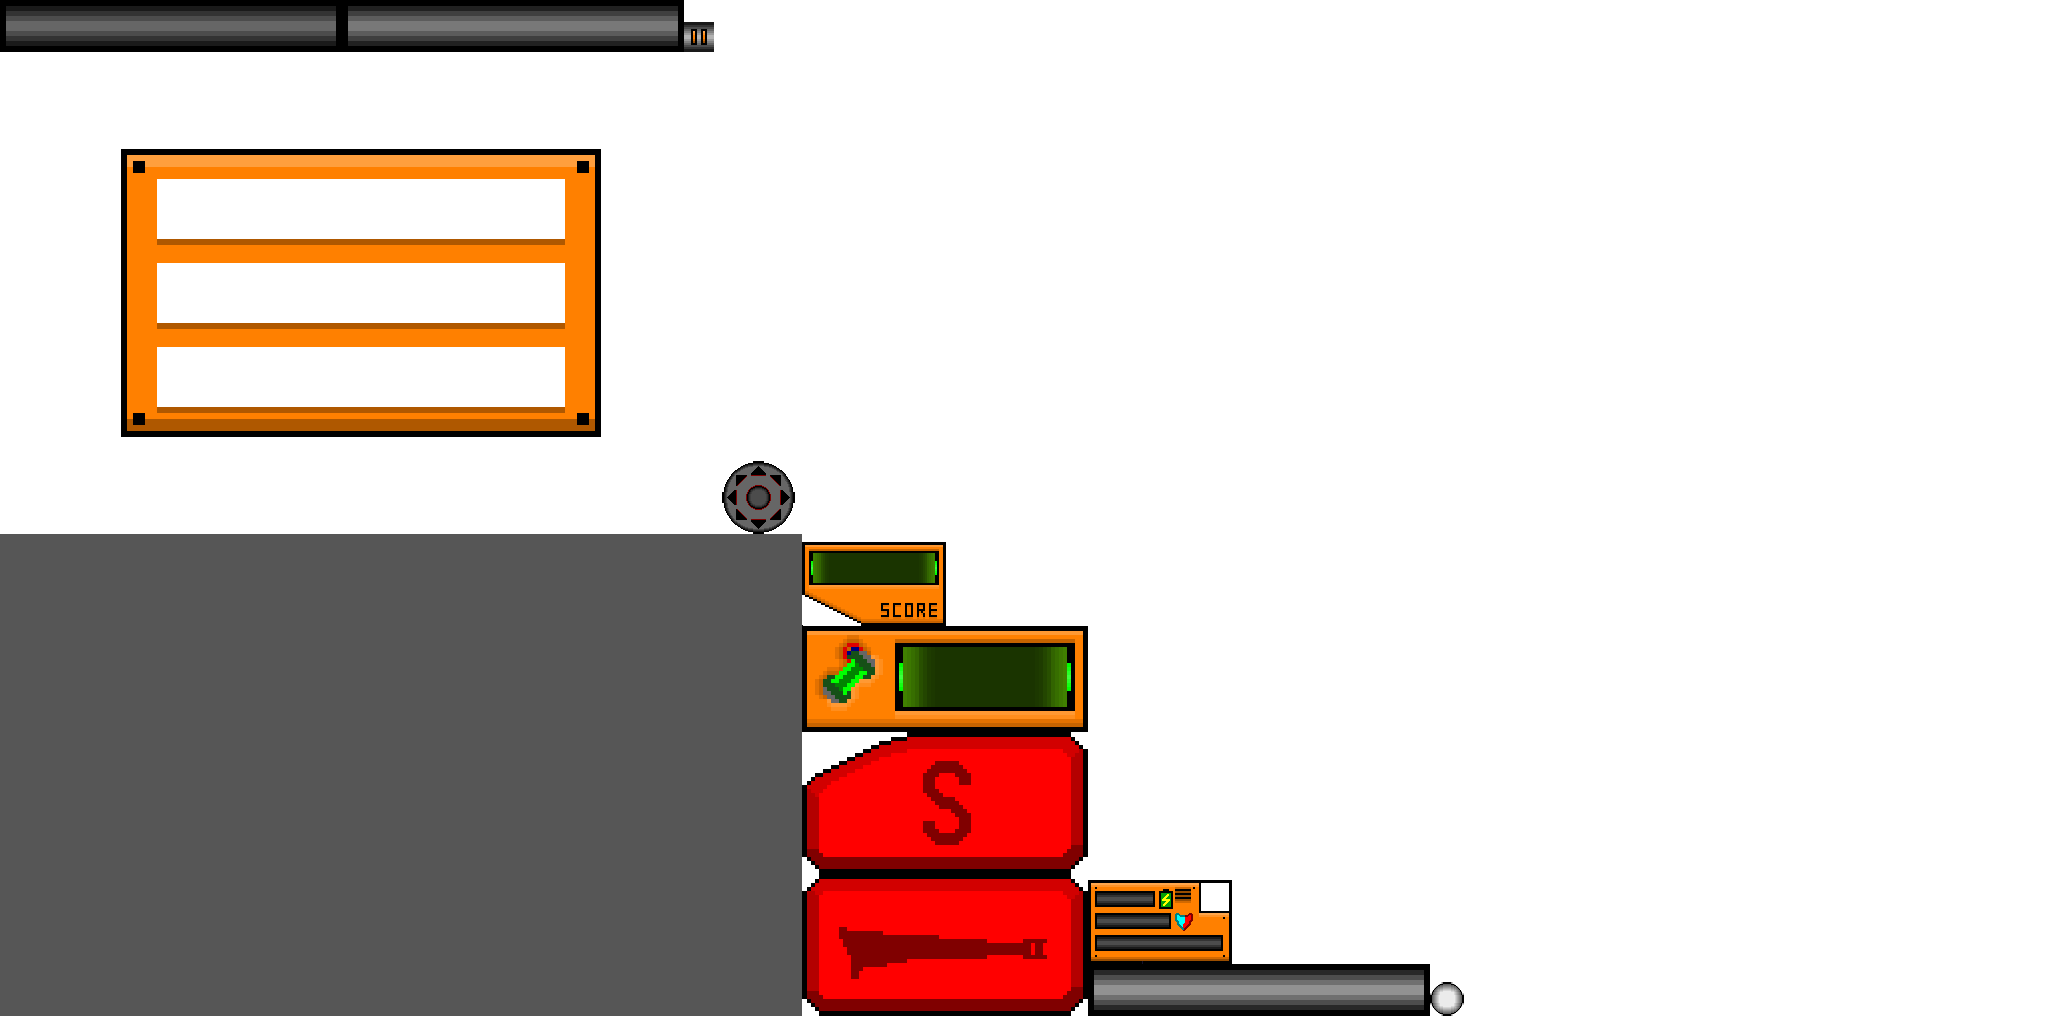
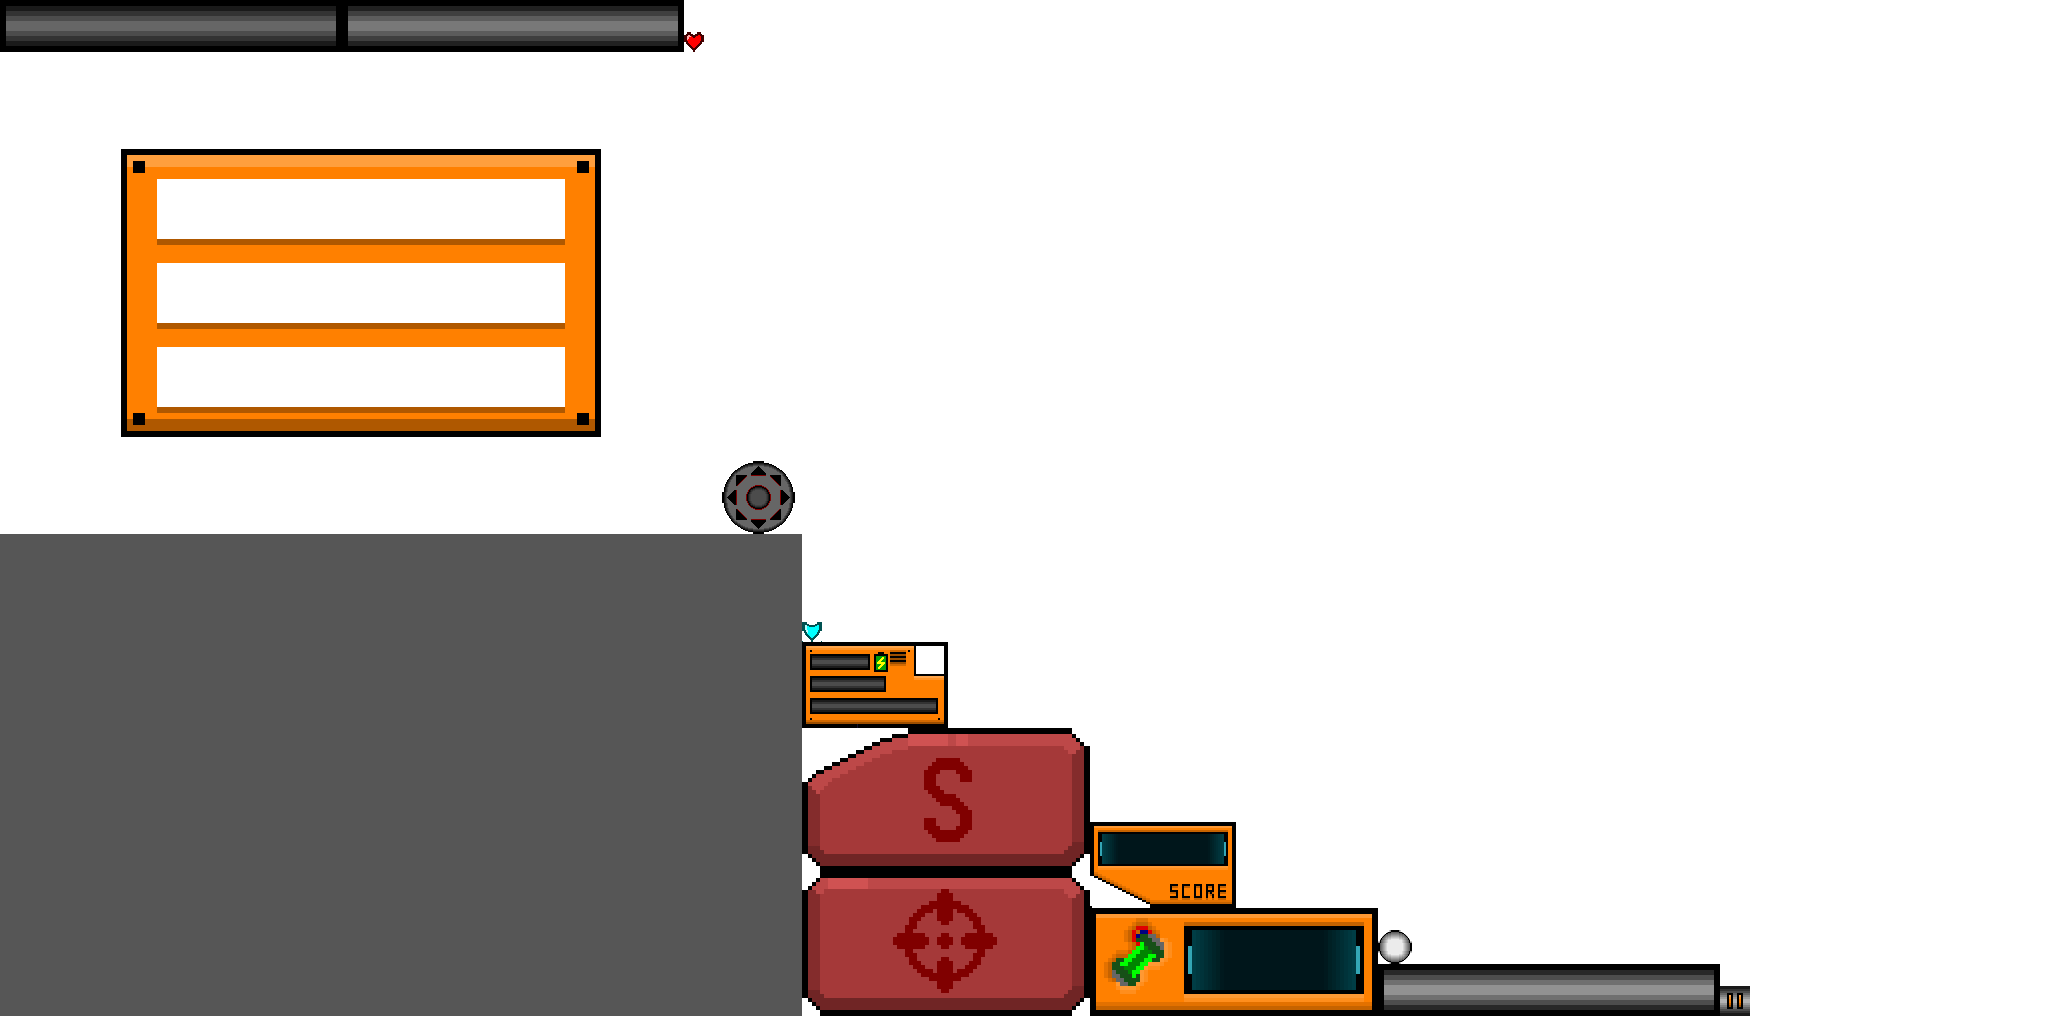
Ui changes

Changed region(s): [[0.375, 0.5312, 0.875, 1.0], [0.3125, 0.0312, 0.3438, 0.0625]]

diff --git a/core/src/com/deo/flapd/view/GameUi.java b/core/src/com/deo/flapd/view/GameUi.java
@@ -40,7 +40,7 @@ import static com.deo.flapd.view.GameScreen.is_paused;
 public class GameUi {
     
     private final Stage stage;
-    private final Stage PauseStage;
+    private final Stage pauseStage;
     
     private float deltaX;
     private float deltaY;
@@ -105,10 +105,16 @@ public class GameUi {
         Image money_display = new Image(gameUiAtlas.findRegion("money_display"));
         Image stats_indicator_panel = new Image(gameUiAtlas.findRegion("health_indicator"));
         
+        Image heartIcon = new Image(gameUiAtlas.findRegion("heart_icon"));
+        Image shieldIcon = new Image(gameUiAtlas.findRegion("shield_icon"));
+        
         stats_indicator_panel.setBounds(658 - 142 * (uiScale - 1), 398 - 82 * (uiScale - 1), 142 * uiScale, 82 * uiScale);
         pause.setBounds(770 - 32 * (uiScale - 1), 450 - 32 * (uiScale - 1), 29 * uiScale, 29 * uiScale);
         levelScore.setBounds(516 - 284 * (uiScale - 1), 398 - 82 * (uiScale - 1), 142 * uiScale, 82 * uiScale);
         money_display.setBounds(374 - 426 * (uiScale - 1), 428 - 52 * (uiScale - 1), 142 * uiScale, 52 * uiScale);
+        
+        heartIcon.setBounds(658 - 142 * (uiScale - 1), 410 - 70 * (uiScale - 1), 18 * uiScale, 18 * uiScale);
+        shieldIcon.setBounds(658 - 142 * (uiScale - 1), 432 - 48 * (uiScale - 1), 18 * uiScale, 18 * uiScale);
         
         font_numbers = assetManager.get("fonts/font.fnt");
         font_white = assetManager.get("fonts/font_white.fnt");
@@ -116,10 +122,10 @@ public class GameUi {
         BitmapFont font_buttons = assetManager.get("fonts/font2.fnt");
         
         stage = new Stage(viewport, batch);
-        PauseStage = new Stage(viewport, batch);
+        pauseStage = new Stage(viewport, batch);
         InputMultiplexer multiplexer = new InputMultiplexer();
         multiplexer.addProcessor(stage);
-        multiplexer.addProcessor(PauseStage);
+        multiplexer.addProcessor(pauseStage);
         Gdx.input.setInputProcessor(multiplexer);
         
         Table weaponControlls = new Table();
@@ -213,6 +219,8 @@ public class GameUi {
             levelScore.setColor(1, 1, 1, 0.5f);
             money_display.setColor(1, 1, 1, 0.5f);
             font_numbers.setColor(0, 1, 1, 0.5f);
+            heartIcon.setColor(1, 1, 1, 0.7f);
+            shieldIcon.setColor(1, 1, 1, 0.7f);
         } else {
             font_numbers.setColor(0, 1, 1, 1);
         }
@@ -226,8 +234,10 @@ public class GameUi {
         stage.addActor(healthProgressBar);
         stage.addActor(chargeProgressBar);
         stage.addActor(weaponControlls);
+        stage.addActor(heartIcon);
+        stage.addActor(shieldIcon);
         
-        PauseStage.addActor(pause1);
+        pauseStage.addActor(pause1);
         
         touchpad.addListener(new ChangeListener() {
             
@@ -339,8 +349,8 @@ public class GameUi {
         batch.end();
         
         if (is_paused) {
-            PauseStage.draw();
-            PauseStage.act(delta);
+            pauseStage.draw();
+            pauseStage.act(delta);
         }
         
         batch.begin();
@@ -362,7 +372,7 @@ public class GameUi {
     public void dispose() {
         
         stage.dispose();
-        PauseStage.dispose();
+        pauseStage.dispose();
         font_main.dispose();
         font_numbers.dispose();
         font_white.dispose();
